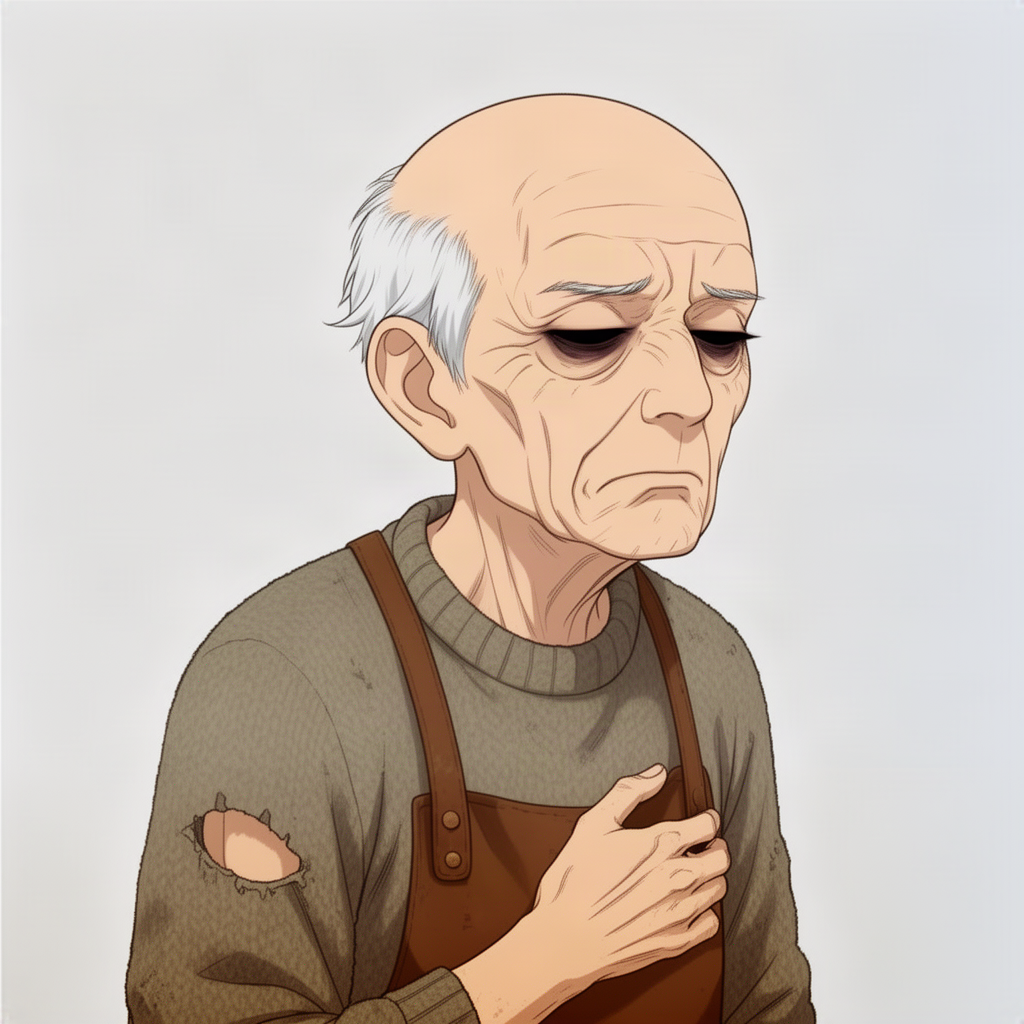
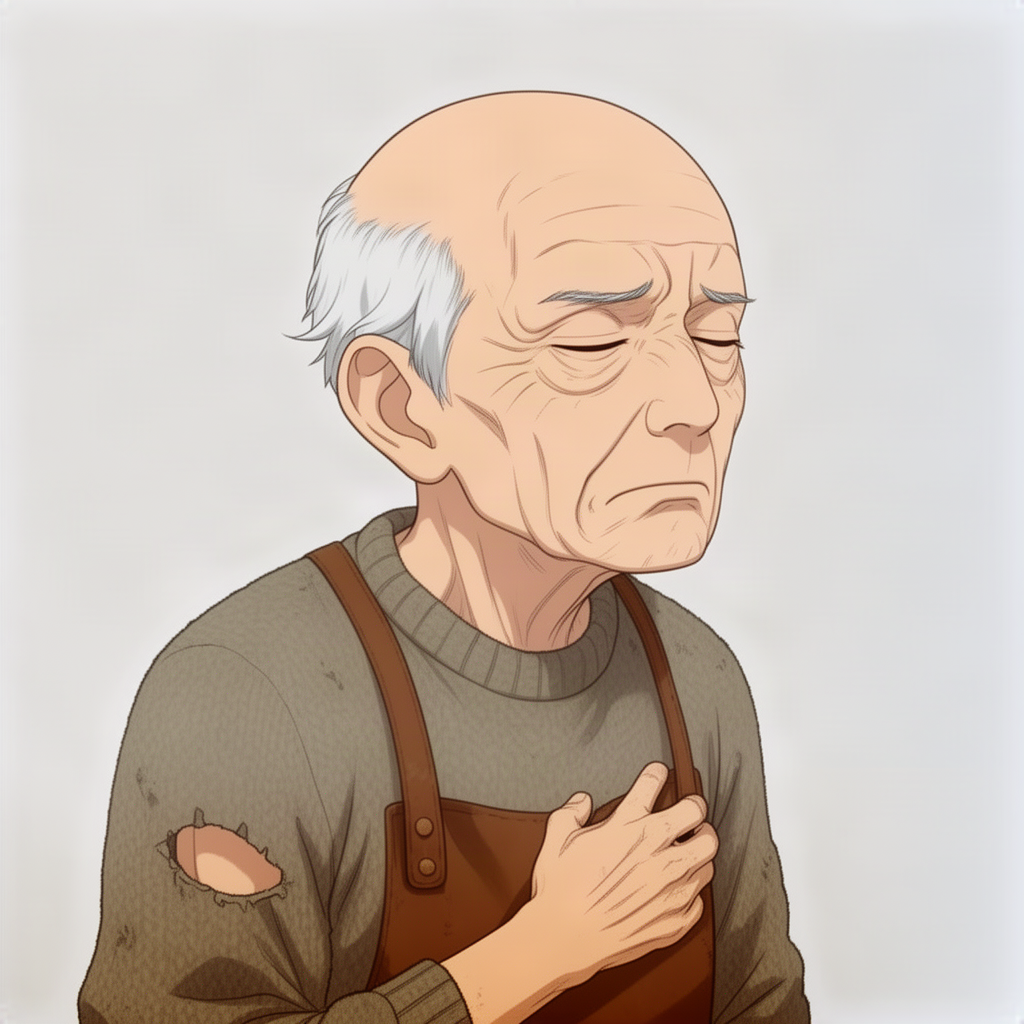
Jef: closed-eye portrait without dark sockets; Maelis carries a full-size Jef, Dragon with a faint blue light

Changed region(s): [[0.0625, 0.0625, 0.8125, 1.0], [0.5625, 0.0938, 0.6875, 0.1562]]

diff --git a/art/index.html b/art/index.html
@@ -1,6 +1,6 @@
 <!doctype html><meta charset=utf-8><title>Art index</title>
 <style>body{font:14px system-ui;margin:20px;background:#15171a;color:#e8e6df}h2{margin:28px 0 8px;border-bottom:1px solid #444}.g{display:flex;flex-wrap:wrap;gap:12px}.c{width:220px;background:#1f2226;border-radius:6px;padding:6px}.c img{width:100%;background:#445}.bg img,.cg img{background:#223}small{color:#9a9;display:block}details{margin-top:4px;color:#aaa}summary{cursor:pointer}pre{white-space:pre-wrap;font-size:11px}</style>
-<h1>Art index</h1><p>234 images. Generated 2026-11-23T06:41:27Z. Fixed features: art/canon.json.</p>
+<h1>Art index</h1><p>234 images. Generated 2026-11-23T06:45:36Z. Fixed features: art/canon.json.</p>
 <h2>Other <small>(30)</small></h2><div class=g>
 <div class='c po'><img src='../game/game/images/p_anselm_calm.png' loading=lazy><b>p anselm_calm</b><small>flux-2-t2i $0.012 art/refs/ch04/portraits/anselm_calm.png</small><small>used: ch4×4, ch6×4</small><details><summary>prompt</summary><pre>model: fal-ai/flux-2/edit
 purpose: sheet
@@ -104,9 +104,9 @@ refs: /tmp/jef_old_base.png
 Anime-style character portrait, clean line art, soft cel shading, gentle natural colours. Head and shoulders, three-quarter view, the face turned toward the viewer&#x27;s right, plain light grey background, no text. The same character as the reference image: the same very old, deeply wrinkled, nearly bald man with a tuft of white hair, the same brown leather apron over the same jersey with a hole at the elbow. ONE CHANGE TO THE FACE: the eyes are SMALL, NARROW and HEAVY-LIDDED, dark brown-black with only a tiny sharp highlight, set under LEVEL, STRAIGHT, heavy brows. NOT large, NOT round, NOT wide open, NO raised or sad eyebrows, NOT shiny, NOT puppy-like, nothing cartoonish. A stern, austere, realistic, hard-to-read old face. Expression: stern and grumbling, mouth set in a flat line, unimpressed.</pre></details></div>
 <div class='c po'><img src='../game/game/images/p_jef_tired.png' loading=lazy><b>p jef_tired</b><small>flux-2 $0.024 art/refs/ch04/portraits/jef_tired.png</small><small>used: ch4×16</small><details><summary>prompt</summary><pre>model: fal-ai/flux-2/edit
 purpose: sheet
-refs: art/refs/ch04/portraits/jef_grumbling.png
+refs: art/refs/ch04/portraits/jef_tired.png, art/refs/ch04/portraits/jef_grumbling.png
 
-Anime-style character portrait, clean line art, soft cel shading, gentle natural colours. Head and shoulders, three-quarter view, the face turned toward the viewer&#x27;s right, plain light grey background, no text. The same character as the reference image: same face, same SMALL NARROW HEAVY-LIDDED dark eyes under LEVEL STRAIGHT heavy brows, same very old deeply wrinkled nearly bald head with a white tuft, same apron and jersey with a hole at the elbow. The eyes stay SMALL and NARROW: NOT large, NOT round, NOT wide open, no raised or sad eyebrows, nothing cartoonish. Restrained, realistic, hard to read. Expression: tired, eyes lowered and heavy, one hand rubbing his chest, drained.</pre></details></div>
+Anime-style character portrait, clean line art, soft cel shading, gentle natural colours. Head and shoulders, three-quarter view, the face turned toward the viewer&#x27;s right, plain light grey background, no text. The same character as the reference image: same face, same very old deeply wrinkled nearly bald head with a white tuft over the ear, same level heavy brows, same apron and jersey with a hole at the elbow, one hand rubbing his chest. Expression: tired, drained, EYES CLOSED. The closed eyes are drawn as simple thin lids: a single fine curved lash line on each eye over smooth pale skin, with soft light wrinkles around them. NO dark shadow, NO black or dark purple eye sockets, NO dark rings or bags under the eyes, NO heavy shading around the eyes: the skin around the eyes is the same pale colour as the rest of the face. Restrained, realistic, quiet.</pre></details></div>
 <div class='c po'><img src='../game/game/images/p_jef_watching.png' loading=lazy><b>p jef_watching</b><small>flux-2 $0.024 art/refs/ch04/portraits/jef_watching.png</small><small>used: ch4×7</small><details><summary>prompt</summary><pre>model: fal-ai/flux-2/edit
 purpose: sheet
 refs: art/refs/ch04/portraits/jef_grumbling.png

diff --git a/art/bible.md b/art/bible.md
@@ -154,3 +154,5 @@ Places: `c6_gallery_failing`, `c6_gallery_stern`, `c6_gallery_nineteen`, `c6_hea
 - **Air-heart** (chapter 5, scenes 2 and 3): an ornate round sphere of white pearl plates, silver bands and gold filigree with a gold hinge seam, house-sized, on a stone cradle. This replaces the ribbed shell and is the owner's choice; the novel text still says "a pale ribbed thing like a great closed shell", which only the owner can change. New background `dc_heart_chamber` and six illustrations `c5_airheart_touch`, `reach`, `open`, `fingers`, `tool`, `breathes` (art/refs/ch05/airheart/).
 - **Dragon lights** (c05.s04): thirty small needles with a light on each flank around a dark Dragon, not lamps on the ribs.
 - **Transparent hair** fixed on the clay-tube woman and on Anselm (smile, helmed, lowered, gentle): chunks of white hair had been cut away with the backdrop; refilled from the uncut sources. Originals in `art/refs/ch06/portraits/rejected/`.
+- **Jef:** the closed-eye portrait `p_jef_tired` redone without the dark sockets (plain thin lids, no shadow). The old one is in `art/refs/ch04/portraits/rejected/`.
+- **Maelis carrying Jef** (`c4_dragon_departs`, c04.s10): Jef is a full-sized thin old man cradled across her arms, head back on her shoulder, eyes closed. The first version showed him as a tiny doll. The model drifts to child proportions when given a close-up portrait of Jef as reference; use words and a wider shot. The Dragon lies intact and calm with a faint blue light along its ribs (the novel says "long pale light"; blue is the owner's direction).
